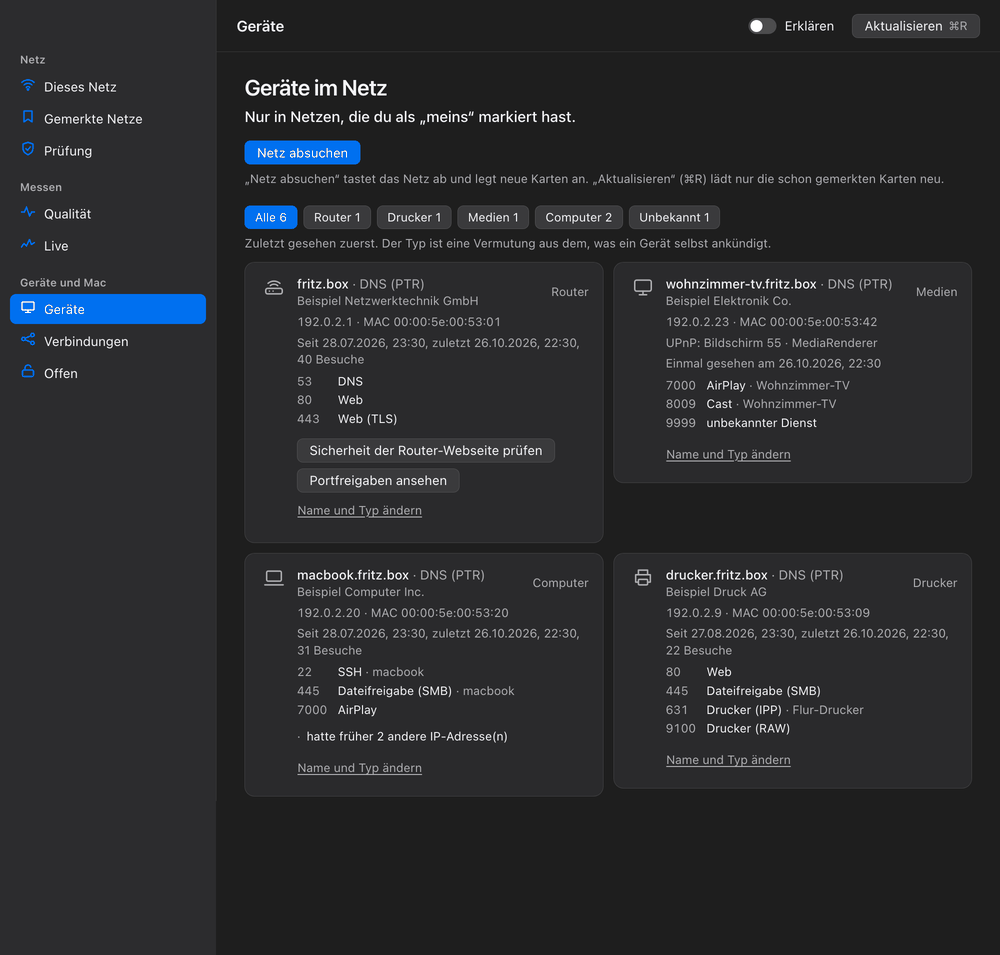
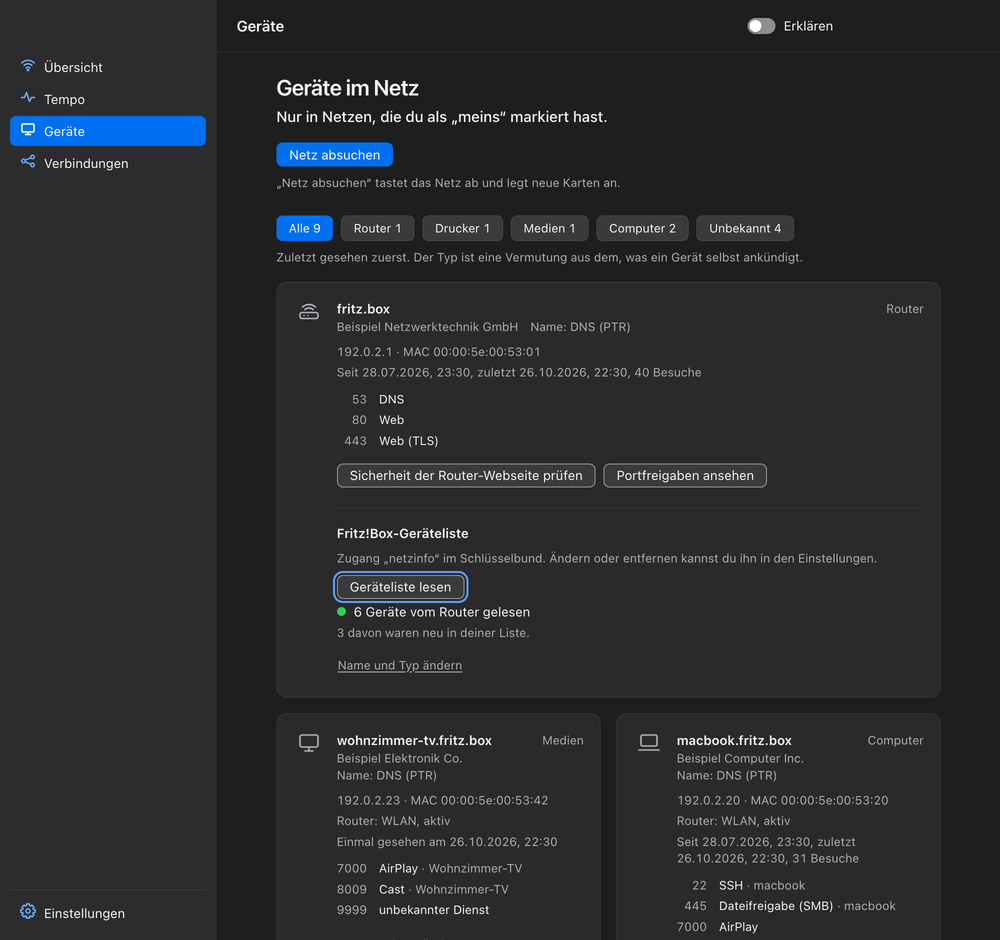
Welle 15: Nachzug (#207, #208) (#218)
Eigene tempo.css und Links für Übersicht und Tempo im Gerüst. Eine Antwort-Überschrift (h2.antwort) für Übersicht, Tempo und Verbindungen statt drei eigener. Link zur Breitbandmessung über einen festen App-Befehl (Tauri öffnet target=_blank nicht). Live in Tempo behält die Eignung. „Zugang eintragen“ öffnet in den Einstellungen gleich das Formular. „1 kurzer Aussetzer“, Satz nennt den Knopf „Tempo messen“.

diff --git a/app/ui/ansichten/tempo.js b/app/ui/ansichten/tempo.js
@@ -3,7 +3,7 @@
 // darunter das Störungsprotokoll und die Live-Kurve, alles Übrige unter „Details“ (der Rest von „Qualität“, qualitaet.js).
 // Das CSS dieser Ansicht steht am Ende von qualitaet.css: index.html bindet kein eigenes tempo.css ein.
 (() => {
-  const { el, status } = Netz;
+  const { el, meldung } = Netz;
   const mbit = (v) => v.toLocaleString('de-DE', { maximumFractionDigits: v < 10 ? 1 : 0 });
   const AMPEL = { keiner: 'gruen', wlan: 'orange', leitung: 'orange', router: 'orange', unklar: 'grau' };
   // Wo man am Router die Zahl der Leitung freischaltet; ohne Router (kein_router) gibt es nichts zu tun.
@@ -30,7 +30,7 @@
 
   // Wie es weitergeht, wenn der Router keine Zahl nennt: je `art` ein Ausweg.
   function ausweg(f) {
-    if (f?.art === 'anmeldung') return el('p', { class: 'engpass-ausweg' }, el('button', { class: 'knopf', type: 'button', text: 'Zugang eintragen', onclick: () => Netz.zeige('gemerkte-netze') }));
+    if (f?.art === 'anmeldung') return el('p', { class: 'engpass-ausweg' }, el('button', { class: 'knopf', type: 'button', text: 'Zugang eintragen', onclick: () => Netz.fritzEintragen() }));
     if (f?.art === 'upnp') return el('p', { class: 'engpass-ausweg fuss', text: UPNP });
     return '';
   }
@@ -40,7 +40,10 @@
     titel: 'Tempo',
     icon: Netz.icons.qualitaet,
     async render(wurzel) {
-      const kopfStatus = el('div', { 'aria-live': 'polite' }, status('grau', 'Lädt …'));
+      // Die Antwort ist die Überschrift, wie in Übersicht und Verbindungen.
+      const antwort = el('h2', { class: 'antwort' });
+      const antworte = (farbe, satz) => antwort.replaceChildren(el('span', { class: `punkt ${farbe}`, 'aria-hidden': 'true' }), el('span', { text: satz }));
+      antworte('grau', 'Lädt …');
       const zahlenOrt = el('div');
       const rat = el('p', { class: 'engpass-rat', hidden: true });
       const ort = el('div', { 'aria-live': 'polite' });
@@ -52,12 +55,12 @@
       async function lies() {
         try {
           const e = await Netz.invoke('engpass_lesen', { macDownMbit: mac });
-          kopfStatus.replaceChildren(status(AMPEL[e.engpass] ?? 'grau', e.satz));
+          antworte(AMPEL[e.engpass] ?? 'grau', e.satz);
           zahlenOrt.replaceChildren(zahlen(e), ausweg(e.leitung_fehlt));
           rat.textContent = e.rat ?? '';
           rat.hidden = !e.rat;
         } catch (f) {
-          kopfStatus.replaceChildren(status('rot', 'Das Tempo ist gerade nicht lesbar'));
+          antworte('rot', 'Das Tempo ist gerade nicht lesbar');
           zahlenOrt.replaceChildren(Netz.fehlerKarte(Netz.text(f), lies));
           rat.hidden = true;
         }
@@ -76,7 +79,11 @@
           el('div', { class: 'engpass-aktion' }, knopf, hinweis), ort,
           el('details', { class: 'details verlauf-details' }, el('summary', { text: 'Frühere Messungen' }), verlauf),
           el('p', { class: 'fuss' }, 'Das ersetzt nicht die Breitbandmessung der Bundesnetzagentur, die für eine Minderung zählt: ',
-            el('a', { href: 'https://breitbandmessung.de', target: '_blank', rel: 'noopener', text: 'breitbandmessung.de' }), '.')));
+            // Tauri öffnet target=_blank nicht: Die App öffnet die feste Adresse selbst im Browser.
+            el('a', { href: 'https://breitbandmessung.de', text: 'breitbandmessung.de', onclick: (e) => {
+              e.preventDefault();
+              Netz.invoke('breitbandmessung_oeffnen').catch((f) => e.target.closest('.fuss').after(meldung(Netz.text(f), 'rot')));
+            } }), '.')));
 
       // „Details“ zuerst bauen: das Störungsprotokoll gehört zu „Qualität“, steht aber hier oben.
       const gemeinsam = { ausfall: null };
@@ -86,7 +93,7 @@
       await Netz.live.bauen(live, true);
 
       wurzel.append(
-        el('div', { class: 'kopf' }, el('h2', { text: 'Tempo' }), kopfStatus),
+        el('div', { class: 'kopf', 'aria-live': 'polite' }, antwort),
         karte,
         gemeinsam.ausfall ? el('div', { class: 'eingebettet', 'data-ansicht': 'qualitaet' }, gemeinsam.ausfall) : '',
         el('section', { class: 'gruppe', 'aria-labelledby': 'g-live-kurve' }, el('h3', { id: 'g-live-kurve', text: 'Live-Kurve' }), live),

diff --git a/app/ui/ansichten/qualitaet.css b/app/ui/ansichten/qualitaet.css
@@ -142,33 +142,3 @@
 [data-ansicht='qualitaet'] .karte .fuss + .knopf, [data-ansicht='qualitaet'] .karte .fuss + .egress-werkzeuge { margin-top: 12px; }
 [data-ansicht='qualitaet'] .diagnose > div:empty, [data-ansicht='qualitaet'] .ipv6-karte > div:empty { display: none; }
 [data-ansicht='qualitaet'] .karte .knopf + div:not(:empty) { margin-top: 16px; }
-
-/* Ansicht „Tempo“ (tempo.js, #207, #208): Engpass-Karte oben. Die eingebetteten Teile bringen ihre eigene data-ansicht mit. */
-[data-ansicht='tempo'] .gruppe > h3 { margin: 0 0 8px 16px; }
-[data-ansicht='tempo'] .gruppe > .karte { margin-top: 0; padding: 16px; }
-[data-ansicht='tempo'] .kopf + .karte, [data-ansicht='tempo'] .kopf + .gruppe { margin-top: 24px; }
-[data-ansicht='tempo'] .engpass-zahlen { display: grid; grid-template-columns: repeat(3, minmax(0, 1fr)); gap: 8px; margin: 0; }
-[data-ansicht='tempo'] .zahl-feld { min-width: 0; padding: 12px; border: 1px solid var(--linie); border-radius: 8px; }
-[data-ansicht='tempo'] .zahl-feld.bremst { padding: 11px; border: 2px solid var(--orange); }
-[data-ansicht='tempo'] .zahl-feld .label { color: var(--fg2); font-size: 12px; }
-[data-ansicht='tempo'] .zahl-feld .gross { margin: 2px 0 0; font-size: 22px; font-weight: 600; letter-spacing: -0.02em; white-space: nowrap; }
-[data-ansicht='tempo'] .zahl-feld .klein { margin: 2px 0 0; color: var(--fg2); font-size: 12px; }
-[data-ansicht='tempo'] .engpass-wort { display: flex; align-items: center; gap: 6px; margin: 6px 0 0; color: var(--orange); font-size: 12px; font-weight: 600; }
-[data-ansicht='tempo'] .engpass-rat { margin: 16px 0 0; font-size: 14px; line-height: 1.45; }
-[data-ansicht='tempo'] .engpass-ausweg { margin: 12px 0 0; }
-[data-ansicht='tempo'] .engpass-ausweg.fuss { margin: 12px 0 0; }
-[data-ansicht='tempo'] .engpass-aktion { display: flex; align-items: center; flex-wrap: wrap; gap: 8px 16px; margin-top: 16px; }
-[data-ansicht='tempo'] .engpass-aktion .fuss { margin: 0; flex: 1; min-width: 200px; }
-[data-ansicht='tempo'] .engpass-karte .karte > div:empty { display: none; }
-[data-ansicht='tempo'] .engpass-karte .liste { margin-top: 16px; background: none; border: 0; border-radius: 0; }
-[data-ansicht='tempo'] .engpass-karte .zeile { margin: 0; }
-[data-ansicht='tempo'] .engpass-karte .karte > .fuss { margin: 16px 0 0; }
-[data-ansicht='tempo'] .engpass-karte .karte a { color: color-mix(in srgb, var(--accent) 65%, var(--fg)); }
-[data-ansicht='tempo'] .engpass-karte .karte [aria-live]:not(:empty) { margin-top: 16px; }
-[data-ansicht='tempo'] .engpass-karte h4 { margin: 16px 0 0; font-size: 12px; font-weight: 600; color: var(--fg2); }
-[data-ansicht='tempo'] .verlauf-details { margin-top: 12px; }
-[data-ansicht='tempo'] .verlauf-details:has(.verlauf:empty) { display: none; }
-[data-ansicht='tempo'] .last-verlauf { margin: 4px 0 0; padding-left: 18px; color: var(--fg2); font-variant-numeric: tabular-nums; }
-[data-ansicht='tempo'] > .details { margin-top: 24px; }
-[data-ansicht='tempo'] .details > .eingebettet > :first-child { margin-top: 16px; }
-[data-ansicht='tempo'] .eingebettet .gruppe:first-child { margin-top: 24px; }

diff --git a/app/vorschau/engpass.js b/app/vorschau/engpass.js
@@ -8,7 +8,7 @@
 //   engpass: 'leitung' | 'wlan' | 'router' | 'keiner' | 'unklar',
 //   satz: string, rat: string | null }
 // The Mac number comes from last_messen (networkQuality), the card passes it in.
-// Marks: ,engpass-wlan ,engpass-leitung ,engpass-ohne-router ,engpass-kabel ,engpass-ungemessen (before „Messen“) ,engpass-fehler; none = all good
+// Marks: ,engpass-wlan ,engpass-leitung ,engpass-ohne-router ,engpass-kabel ,engpass-ungemessen (before „Tempo messen“) ,engpass-fehler; none = all good
 (() => {
   const m = (s) => marken.includes(s);
   const fritz = (down, up, vd, vu) => ({ down_mbit: down, up_mbit: up, vertrag_down_mbit: vd, vertrag_up_mbit: vu, quelle: 'fritzbox' });
@@ -18,14 +18,14 @@
     if (m('engpass-wlan')) return { leitung: fritz(116, 42, 100, 40), leitung_fehlt: null, wlan: { rate_mbit: 72, nutz_mbit: 43, band: '2,4 GHz' }, kabel: false, mac_down_mbit: mac ?? 38,
       engpass: 'wlan', satz: 'Gebucht sind 100 Mbit/s, die Leitung schafft 116, das WLAN nur etwa 43.', rat: 'Geh näher an den Router oder nimm das 5-GHz-Netz.' };
     if (m('engpass-leitung')) return { leitung: fritz(16, 2.4, 50, 10), leitung_fehlt: null, wlan: { rate_mbit: 866, nutz_mbit: 520, band: '5 GHz' }, kabel: false, mac_down_mbit: mac ?? 15,
-      engpass: 'leitung', satz: 'Die Leitung schafft nur 16 von 50 gebuchten Mbit/s. WLAN und Mac sind schneller.', rat: 'Das liegt beim Anbieter. Miss mit der Breitbandmessung der Bundesnetzagentur, wenn du eine Minderung willst.' };
+      engpass: 'leitung', satz: 'Die Leitung schafft nur 16 von 50 gebuchten Mbit/s.', rat: 'Das liegt beim Anbieter. Miss mit der Breitbandmessung der Bundesnetzagentur, wenn du eine Minderung willst.' };
     if (m('engpass-ohne-router')) return { leitung: null, leitung_fehlt: { art: 'anmeldung', satz: 'Die Fritz!Box nennt die Leitung erst mit Anmeldung.' }, wlan: { rate_mbit: 866, nutz_mbit: 520, band: '5 GHz' }, kabel: false, mac_down_mbit: mac ?? 94,
       engpass: 'unklar', satz: 'Das WLAN schafft etwa 520 Mbit/s, am Mac kommen 94 an. Ohne die Zahl des Routers bleibt offen, ob die Leitung mehr kann.', rat: null };
     if (m('engpass-kabel')) return { leitung: fritz(250, 40, 250, 40), leitung_fehlt: null, wlan: null, kabel: true, mac_down_mbit: mac ?? 231,
       engpass: 'keiner', satz: 'Gebucht sind 250 Mbit/s, am Mac kommen über Kabel 231 an. Du bekommst, wofür du zahlst.', rat: null };
     const gut = { leitung: fritz(116, 42, 100, 40), leitung_fehlt: null, wlan: { rate_mbit: 866, nutz_mbit: 520, band: '5 GHz' }, kabel: false };
     if (m('engpass-ungemessen') && mac == null) return { ...gut, mac_down_mbit: null, engpass: 'unklar',
-      satz: 'Die Leitung schafft 116 Mbit/s, das WLAN etwa 520. Was am Mac ankommt, zeigt „Messen“.', rat: null };
+      satz: 'Die Leitung schafft 116 Mbit/s, das WLAN etwa 520. Was am Mac ankommt, zeigt „Tempo messen“.', rat: null };
     return { ...gut, mac_down_mbit: mac ?? 104, engpass: 'keiner', satz: 'Gebucht sind 100 Mbit/s, am Mac kommen 104 an. Du bekommst, wofür du zahlst.', rat: null };
   };
 })();

diff --git a/app/ui/ansichten/tempo.css b/app/ui/ansichten/tempo.css
@@ -1,0 +1,29 @@
+/* Ansicht „Tempo“ (tempo.js, #207, #208): Engpass-Karte oben. Die eingebetteten Teile bringen ihre eigene data-ansicht mit. */
+[data-ansicht='tempo'] .gruppe > h3 { margin: 0 0 8px 16px; }
+[data-ansicht='tempo'] .gruppe > .karte { margin-top: 0; padding: 16px; }
+[data-ansicht='tempo'] .kopf + .karte, [data-ansicht='tempo'] .kopf + .gruppe { margin-top: 24px; }
+[data-ansicht='tempo'] .engpass-zahlen { display: grid; grid-template-columns: repeat(3, minmax(0, 1fr)); gap: 8px; margin: 0; }
+[data-ansicht='tempo'] .zahl-feld { min-width: 0; padding: 12px; border: 1px solid var(--linie); border-radius: 8px; }
+[data-ansicht='tempo'] .zahl-feld.bremst { padding: 11px; border: 2px solid var(--orange); }
+[data-ansicht='tempo'] .zahl-feld .label { color: var(--fg2); font-size: 12px; }
+[data-ansicht='tempo'] .zahl-feld .gross { margin: 2px 0 0; font-size: 22px; font-weight: 600; letter-spacing: -0.02em; white-space: nowrap; }
+[data-ansicht='tempo'] .zahl-feld .klein { margin: 2px 0 0; color: var(--fg2); font-size: 12px; }
+[data-ansicht='tempo'] .engpass-wort { display: flex; align-items: center; gap: 6px; margin: 6px 0 0; color: var(--orange); font-size: 12px; font-weight: 600; }
+[data-ansicht='tempo'] .engpass-rat { margin: 16px 0 0; font-size: 14px; line-height: 1.45; }
+[data-ansicht='tempo'] .engpass-ausweg { margin: 12px 0 0; }
+[data-ansicht='tempo'] .engpass-ausweg.fuss { margin: 12px 0 0; }
+[data-ansicht='tempo'] .engpass-aktion { display: flex; align-items: center; flex-wrap: wrap; gap: 8px 16px; margin-top: 16px; }
+[data-ansicht='tempo'] .engpass-aktion .fuss { margin: 0; flex: 1; min-width: 200px; }
+[data-ansicht='tempo'] .engpass-karte .karte > div:empty { display: none; }
+[data-ansicht='tempo'] .engpass-karte .liste { margin-top: 16px; background: none; border: 0; border-radius: 0; }
+[data-ansicht='tempo'] .engpass-karte .zeile { margin: 0; }
+[data-ansicht='tempo'] .engpass-karte .karte > .fuss { margin: 16px 0 0; }
+[data-ansicht='tempo'] .engpass-karte .karte a { color: color-mix(in srgb, var(--accent) 65%, var(--fg)); }
+[data-ansicht='tempo'] .engpass-karte .karte [aria-live]:not(:empty) { margin-top: 16px; }
+[data-ansicht='tempo'] .engpass-karte h4 { margin: 16px 0 0; font-size: 12px; font-weight: 600; color: var(--fg2); }
+[data-ansicht='tempo'] .verlauf-details { margin-top: 12px; }
+[data-ansicht='tempo'] .verlauf-details:has(.verlauf:empty) { display: none; }
+[data-ansicht='tempo'] .last-verlauf { margin: 4px 0 0; padding-left: 18px; color: var(--fg2); font-variant-numeric: tabular-nums; }
+[data-ansicht='tempo'] > .details { margin-top: 24px; }
+[data-ansicht='tempo'] .details > .eingebettet > :first-child { margin-top: 16px; }
+[data-ansicht='tempo'] .eingebettet .gruppe:first-child { margin-top: 24px; }

diff --git a/app/ui/ansichten/qualitaet.js b/app/ui/ansichten/qualitaet.js
@@ -688,10 +688,10 @@
       const x = (t) => `${Math.min(100, Math.max(0, ((t - von) / TAGE7) * 100))}%`;
       knopf.hidden = liste.length === 0;
       if (liste.length === 0) {
-        ort.replaceChildren(status('gruen', 'Keine Ausfälle in den letzten 7 Tagen'), aus.length ? el('p', { class: 'fuss', text: `${aus.length} kurze Aussetzer, jeweils unter 15 Sekunden` }) : '');
+        ort.replaceChildren(status('gruen', 'Keine Ausfälle in den letzten 7 Tagen'), aus.length ? el('p', { class: 'fuss', text: `${anzahl(aus.length, 'kurzer Aussetzer', 'kurze Aussetzer')}, jeweils unter 15 Sekunden` }) : '');
         return;
       }
-      const leiste = el('div', { class: 'ausfall-leiste', role: 'img', 'aria-label': `${liste.length} Ausfälle und ${aus.length} kurze Aussetzer in den letzten 7 Tagen, Einzelheiten in der Liste darunter` },
+      const leiste = el('div', { class: 'ausfall-leiste', role: 'img', 'aria-label': `${anzahl(liste.length, 'Ausfall', 'Ausfälle')} und ${anzahl(aus.length, 'kurzer Aussetzer', 'kurze Aussetzer')} in den letzten 7 Tagen, Einzelheiten in der Liste darunter` },
         aus.map((t) => { const a = el('span', { class: 'strich', title: `Aussetzer, ${zeit(t)}` }); a.style.left = x(t); return a; }),
         liste.map((e) => { const b = el('span', { class: 'ausfall-balken', title: `Ausfall, ${zeit(e.beginn)}, ${dauer(e.dauer_s)}, ${ORT[e.schicht]}` }); b.style.left = x(e.beginn); b.style.width = `max(4px, ${(e.dauer_s / TAGE7) * 100}%)`; return b; }));
       ort.replaceChildren(leiste,

diff --git a/app/ui/ansichten/uebersicht.js b/app/ui/ansichten/uebersicht.js
@@ -4,10 +4,6 @@
 (() => {
   const { el, zeit, gruppe, zeile, meldung, status } = Netz;
 
-  // ponytail: index.html und vorschau.html gehören dem Gerüst und kennen uebersicht.css noch nicht; bis dort der <link> steht, hängt die Ansicht ihn selbst an.
-  const skript = document.currentScript?.src;
-  if (skript) document.head.append(el('link', { rel: 'stylesheet', href: skript.replace(/\.js(\?.*)?$/, '.css') }));
-
   // Thema des wichtigsten Unterschieds (aus pruefung.js) als Satzteil.
   const SATZ = {
     'DHCP-Server': 'ein anderer DHCP-Server verteilt Adressen',
@@ -111,7 +107,7 @@
         const hatteFokus = kopf.contains(document.activeElement);
         const erg = z.erg;
         kopf.replaceChildren(...[
-          el('h2', { tabindex: '-1' }, el('span', { class: `punkt ${l.farbe}`, 'aria-hidden': 'true' }), el('span', { text: l.satz })),
+          el('h2', { class: 'antwort', tabindex: '-1' }, el('span', { class: `punkt ${l.farbe}`, 'aria-hidden': 'true' }), el('span', { text: l.satz })),
           d.hinweis && meldung(d.hinweis, 'orange'),
           l.portal && el('p', { class: 'fuss', text: 'Solange du dich nicht angemeldet hast, sind die übrigen Ergebnisse unzuverlässig.' }),
           l.portal && el('button', { class: 'knopf haupt', type: 'button', text: 'Im Browser öffnen', 'aria-label': `Im Browser öffnen, Anmeldeseite${l.portal.ziel_host ? ` von ${l.portal.ziel_host}` : ''}`,

diff --git a/app/ui/ansichten/live.js b/app/ui/ansichten/live.js
@@ -112,8 +112,8 @@
       el('li', {}, el('span', { class: 'muster band-muster' }), 'P5 bis P95 (60 s)'),
     ];
     const ampeln = ['Videoanrufe', 'Spiele', 'Streaming'].map((n) => [n, status('gruen', 'gut')]);
-    const eignungKopf = el('h3', { class: 'unter', text: 'Eignung' });
-    const eignungListe = el('dl', { class: 'liste' }, ampeln.map(([n, st]) => el('div', { class: 'zeile' },
+    const eignungKopf = el('h3', { class: 'unter eignung', text: 'Eignung' });
+    const eignungListe = el('dl', { class: 'liste eignung' }, ampeln.map(([n, st]) => el('div', { class: 'zeile' },
       el('dt', { class: 'label', text: n }), el('dd', { class: 'wert' }, st))));
     const zMedian = zeile('Median'), zP95 = zeile('P95'), zMax = zeile('Maximum');
     const fuss = el('p', { class: 'fuss' });
@@ -174,7 +174,7 @@
   });
   Netz.live = { bauen };
 
-  // `kompakt` (aus tempo.js): ohne Kopf und Erklärgruppe, pro Ziel nur Kennzahlen und Kurve; Eignung und die Liste der letzten 60 s fehlen.
+  // `kompakt` (aus tempo.js): ohne Kopf und Erklärgruppe, pro Ziel Kennzahlen, Kurve und Eignung; die Liste der letzten 60 s fehlt.
   async function bauen(wurzel, kompakt) {
       if (kompakt) wurzel.classList.add('kompakt');
       const HINWEIS = 'Name oder Adresse, mehrere mit Leerzeichen getrennt, bis zu vier.';

diff --git a/app/ui/ansichten/verbindungen.css b/app/ui/ansichten/verbindungen.css
@@ -32,8 +32,6 @@
 [data-ansicht='verbindungen'] .traffic-balken .ein, [data-ansicht='verbindungen'] .traffic-legende .ein::before { background: var(--accent-lesbar); }
 
 /* #208 Antwort-Satz und Segmentsteuerung (Ausgehend / Lauschend) */
-[data-ansicht='verbindungen'] .kopf h2.satz { display: flex; align-items: baseline; gap: 10px; font-size: 22px; line-height: 1.25; }
-[data-ansicht='verbindungen'] .kopf h2.satz .punkt { position: relative; top: -2px; }
 [data-ansicht='verbindungen'] .segmente { display: grid; grid-template-columns: 1fr 1fr; gap: 2px; max-width: 280px; margin: 16px 0 0; padding: 2px; border-radius: 8px; background: var(--linie); }
 [data-ansicht='verbindungen'] .segment { min-height: 24px; padding: 2px 12px; border: 0; border-radius: 6px; background: transparent; color: var(--fg); font: inherit; font-weight: 500; text-align: center; transition: background-color 150ms ease-out; }
 [data-ansicht='verbindungen'] .segment[aria-selected='true'] { background: var(--knopf); box-shadow: 0 0 0 0.5px var(--rand); }

diff --git a/app/ui/style.css b/app/ui/style.css
@@ -164,6 +164,9 @@ input[aria-invalid='true'] { border-color: var(--rot); }
 .kopf h2 { font-size: 22px; font-weight: 600; letter-spacing: -0.02em; line-height: 1.2; }
 .status { display: flex; align-items: center; gap: 8px; margin-top: 6px; font-size: 15px; font-weight: 500; line-height: 1.35; color: var(--fg); }
 .punkt { width: 9px; height: 9px; border-radius: 50%; flex: none; background: var(--grau); }
+/* Antwort oben in jeder Ansicht (#208): Statuspunkt und Satz sind die Überschrift. Der Punkt ist Zugabe, das Wort steht im Satz. */
+.kopf h2.antwort { display: flex; align-items: baseline; gap: 10px; font-size: 24px; letter-spacing: -0.02em; line-height: 1.25; text-wrap: balance; }
+.kopf h2.antwort .punkt { width: 11px; height: 11px; transform: translateY(-1px); }
 .punkt.gruen { background: var(--gruen); }
 .punkt.orange { background: var(--orange); }
 .punkt.rot { background: var(--rot); }

diff --git a/app/ui/ansichten/geraete.js b/app/ui/ansichten/geraete.js
@@ -236,7 +236,7 @@
     if (!fritz.erkannt || !fritz.geladen) { fritzOrt.replaceChildren(); return; }
     const teile = [el('h4', { class: 'router-titel', text: 'Fritz!Box-Geräteliste' })];
     const e = fritz.ergebnis;
-    const zuEinstellungen = (text) => el('button', { class: 'knopf fritz-einrichten', type: 'button', text, onclick: () => Netz.zeige('gemerkte-netze') });
+    const zuEinstellungen = (text) => el('button', { class: 'knopf fritz-einrichten', type: 'button', text, onclick: () => Netz.fritzEintragen() });
     if (!fritz.benutzer) {
       teile.push(el('div', { class: 'fein', text: 'Die Fritz!Box kennt jedes Gerät im Heimnetz, auch die, die auf keinen Scan antworten. Dafür braucht Netzinfo einen eigenen Zugang. Den trägst du in den Einstellungen ein.' }),
         el('div', { class: 'karte-aktionen' }, zuEinstellungen('Zugang in den Einstellungen eintragen')));

diff --git a/app/ui/ansichten/uebersicht.css b/app/ui/ansichten/uebersicht.css
@@ -1,7 +1,4 @@
 /* Styles for the view „uebersicht“ only. Liste der Unterschiede und Details tragen ihre eigene data-ansicht. */
-/* Antwort: ein großer Satz mit Statuspunkt, der Punkt ist nur Zugabe (das Wort steht im Satz). */
-[data-ansicht='uebersicht'] .kopf h2 { display: flex; align-items: baseline; gap: 10px; font-size: 24px; letter-spacing: -0.02em; line-height: 1.25; text-wrap: balance; }
-[data-ansicht='uebersicht'] .kopf h2 .punkt { width: 11px; height: 11px; transform: translateY(-1px); }
 [data-ansicht='uebersicht'] .kopf > * + * { margin-top: 8px; }
 [data-ansicht='uebersicht'] .kopf .erklaerung { margin-left: 21px; }
 [data-ansicht='uebersicht'] .kopf .fuss { margin-left: 21px; }

diff --git a/app/ui/ansichten/verbindungen.js b/app/ui/ansichten/verbindungen.js
@@ -270,7 +270,7 @@
       ergebnis = verb.status === 'fulfilled' ? verb.value : null;
       const s = satz(ergebnis, lausch.status === 'fulfilled' ? lausch.value : null);
       const kopf = el('div', { class: 'kopf' },
-        el('h2', { class: 'satz' }, el('span', { class: `punkt ${s.farbe}`, 'aria-hidden': 'true' }), el('span', { text: s.text })));
+        el('h2', { class: 'antwort' }, el('span', { class: `punkt ${s.farbe}`, 'aria-hidden': 'true' }), el('span', { text: s.text })));
 
       const fl = el('div', { id: 'seg-flaeche', role: 'tabpanel', tabindex: '-1' });
       let aktiv;
